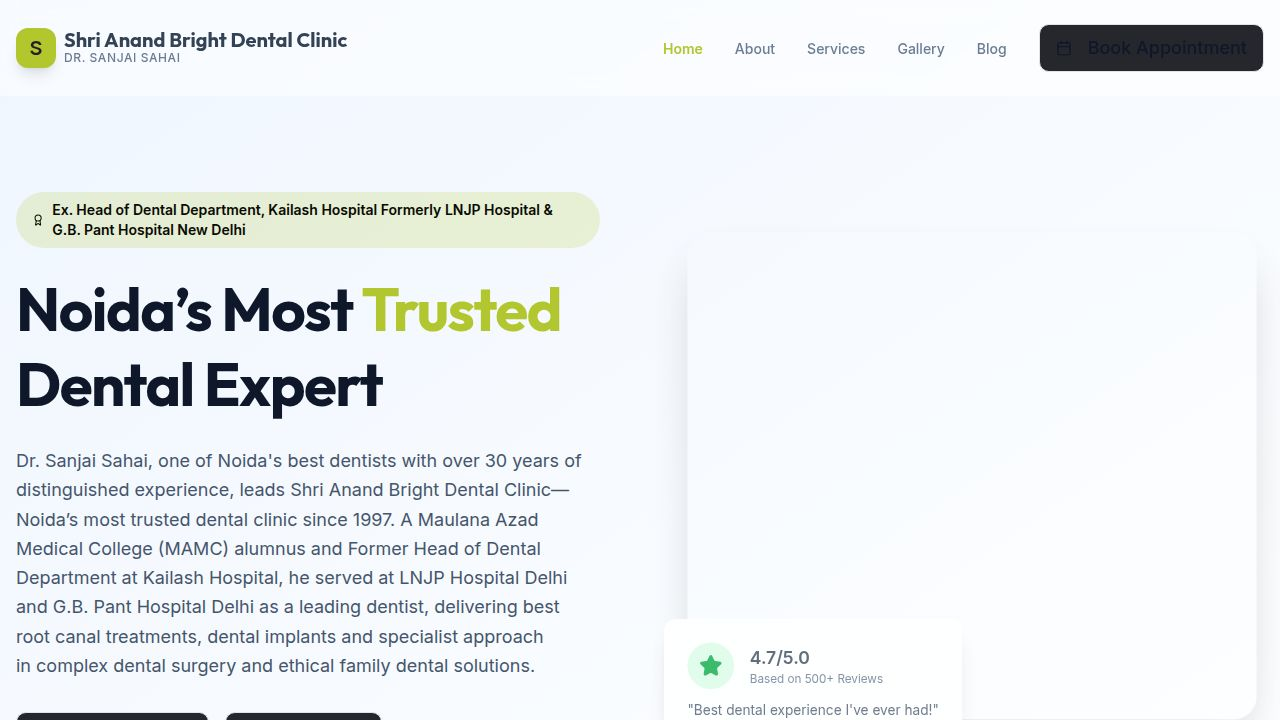
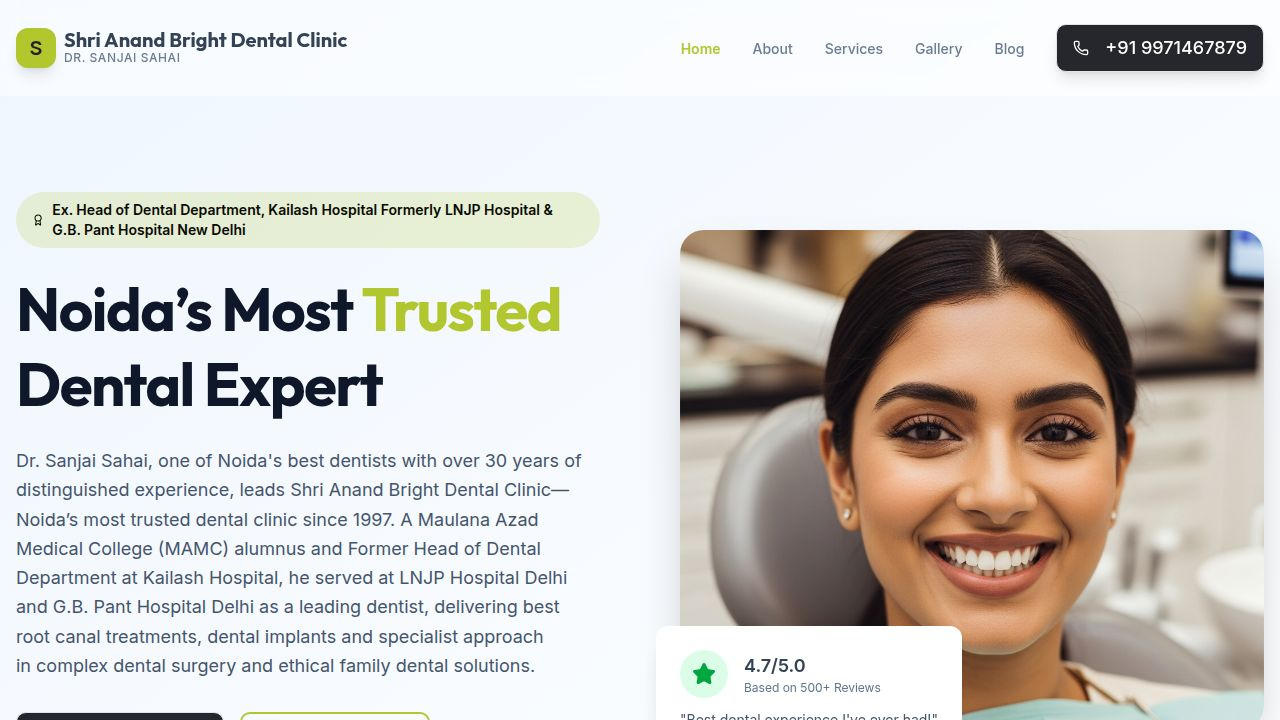
Fix button text color to be white on phone call buttons
Refactor Button component to accept external classNames and apply `text-white hover:text-white` to phone call buttons in Home.tsx and Navbar.tsx. Update index.css with new `.btn-call-white` class.

Replit-Commit-Author: Agent
Replit-Commit-Session-Id: 53026c26-9e4d-49a1-b554-760bd5f3bdb2
Replit-Commit-Checkpoint-Type: full_checkpoint
Replit-Commit-Event-Id: 8794fbf3-e14b-4ec4-ac33-c179e3d82efa
Replit-Commit-Screenshot-Url: https://storage.googleapis.com/screenshot-production-us-central1/1ec2a77f-9ef1-43e6-8072-b4ac018818dc/53026c26-9e4d-49a1-b554-760bd5f3bdb2/SMECBkp
Replit-Helium-Checkpoint-Created: true

Changed region(s): [[0.5312, 0.3056, 1.0, 1.0], [0.5, 0.0306, 0.9688, 0.1222], [0.1562, 0.9778, 0.3438, 1.0]]

diff --git a/client/src/components/layout/Navbar.tsx b/client/src/components/layout/Navbar.tsx
@@ -61,7 +61,7 @@ export function Navbar() {
             </Link>
           ))}
           <a href="tel:+919971467879" className="w-full sm:w-auto">
-            <Button className="inline-flex items-center justify-center gap-2 whitespace-nowrap rounded-md font-medium transition-colors focus-visible:outline-none focus-visible:ring-1 focus-visible:ring-ring disabled:pointer-events-none disabled:opacity-50 [&_svg]:pointer-events-none [&_svg]:size-4 [&_svg]:shrink-0 hover-elevate active-elevate-2 border border-primary-border min-h-9 px-4 py-2 w-full h-12 text-lg bg-[#26272d] text-[#ffffff] shadow-lg hover:shadow-xl">
+            <Button className="inline-flex items-center justify-center gap-2 whitespace-nowrap rounded-md font-medium transition-colors focus-visible:outline-none focus-visible:ring-1 focus-visible:ring-ring disabled:pointer-events-none disabled:opacity-50 hover-elevate active-elevate-2 border border-primary-border min-h-9 px-4 py-2 w-full h-12 text-lg bg-[#26272d] shadow-lg hover:shadow-xl text-white hover:text-white">
               <Phone className="w-5 h-5 mr-2" />
               <span>+91 9971467879</span>
             </Button>
@@ -86,7 +86,7 @@ export function Navbar() {
                   </Link>
                 ))}
                 <a href="tel:+919971467879" className="w-full mt-4">
-                  <Button className="inline-flex items-center justify-center gap-2 whitespace-nowrap rounded-md font-medium transition-colors focus-visible:outline-none focus-visible:ring-1 focus-visible:ring-ring disabled:pointer-events-none disabled:opacity-50 [&_svg]:pointer-events-none [&_svg]:size-4 [&_svg]:shrink-0 border border-primary-border min-h-9 px-4 py-2 w-full h-12 text-lg bg-[#26272d] text-[#ffffff]">
+                  <Button className="inline-flex items-center justify-center gap-2 whitespace-nowrap rounded-md font-medium transition-colors focus-visible:outline-none focus-visible:ring-1 focus-visible:ring-ring disabled:pointer-events-none disabled:opacity-50 border border-primary-border min-h-9 px-4 py-2 w-full h-12 text-lg bg-[#26272d] text-white hover:text-white">
                     <Phone className="w-5 h-5 mr-2" />
                     <span>+91 9971467879</span>
                   </Button>

diff --git a/client/src/pages/Home.tsx b/client/src/pages/Home.tsx
@@ -77,7 +77,7 @@ export default function Home() {
                 <p className="text-lg text-slate-600 mb-8 leading-relaxed max-w-xl">Dr. Sanjai Sahai, one of Noida's best dentists with over 30 years of distinguished experience, leads Shri Anand Bright Dental Clinic—Noida’s most trusted dental clinic since 1997. A Maulana Azad Medical College (MAMC) alumnus and Former Head of Dental Department at Kailash Hospital, he served at LNJP Hospital Delhi and G.B. Pant Hospital Delhi as a leading dentist, delivering best root canal treatments, dental implants and specialist approach in complex dental surgery and ethical family dental solutions.</p>
                 <div className="flex flex-col sm:flex-row gap-4">
                   <a href="tel:+919971467879" className="w-full sm:w-auto">
-                    <Button size="lg" className="inline-flex items-center justify-center gap-2 whitespace-nowrap rounded-md font-medium transition-colors focus-visible:outline-none focus-visible:ring-1 focus-visible:ring-ring disabled:pointer-events-none disabled:opacity-50 [&_svg]:pointer-events-none [&_svg]:size-4 [&_svg]:shrink-0 hover-elevate active-elevate-2 border border-primary-border min-h-9 px-4 py-2 w-full h-12 text-lg bg-[#26272d] text-[#ffffff] group">
+                    <Button size="lg" className="inline-flex items-center justify-center gap-2 whitespace-nowrap rounded-md font-medium transition-colors focus-visible:outline-none focus-visible:ring-1 focus-visible:ring-ring disabled:pointer-events-none disabled:opacity-50 [&_svg]:pointer-events-none [&_svg]:size-4 [&_svg]:shrink-0 hover-elevate active-elevate-2 border border-primary-border min-h-9 px-4 py-2 w-full h-12 text-lg bg-[#26272d] text-white hover:text-white">
                       <Phone className="w-5 h-5 mr-2" />
                       <span>+91 9971467879</span>
                     </Button>

diff --git a/client/src/components/ui/button.tsx b/client/src/components/ui/button.tsx
@@ -53,11 +53,11 @@ const Button = React.forwardRef<HTMLButtonElement, ButtonProps>(
     const Comp = asChild ? Slot : "button"
     return (
       <Comp
-        className="inline-flex items-center justify-center gap-2 whitespace-nowrap rounded-md font-medium transition-colors focus-visible:outline-none focus-visible:ring-1 focus-visible:ring-ring disabled:pointer-events-none disabled:opacity-50 [&_svg]:pointer-events-none [&_svg]:size-4 [&_svg]:shrink-0 hover-elevate active-elevate-2 text-primary-foreground border border-primary-border min-h-9 px-4 py-2 w-full h-12 text-lg bg-[#26272d]"
+        className={cn(buttonVariants({ variant, size, className }))}
         ref={ref}
         {...props}
       />
-    );
+    )
   }
 )
 Button.displayName = "Button"

diff --git a/client/src/index.css b/client/src/index.css
@@ -107,3 +107,10 @@
     @apply font-heading tracking-tight;
   }
 }
+
+/* Force white text on call buttons */
+.btn-call-white,
+.btn-call-white span,
+.btn-call-white svg {
+  color: #ffffff !important;
+}
